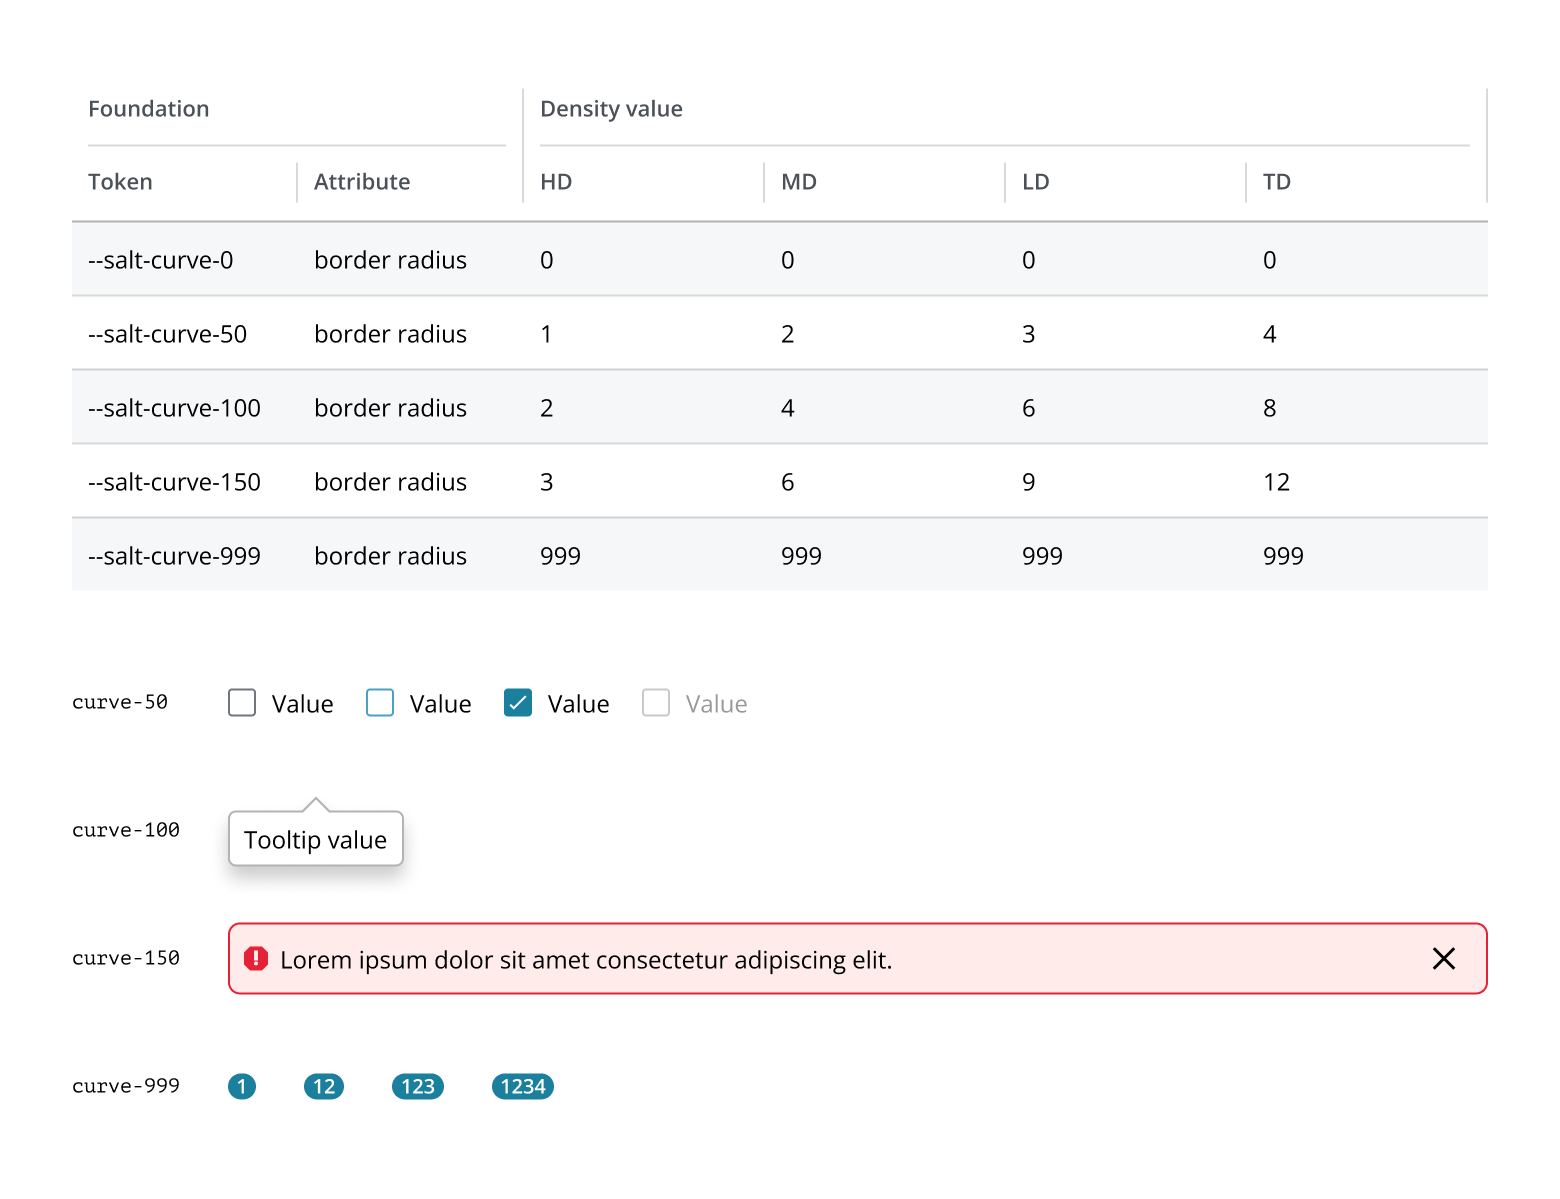
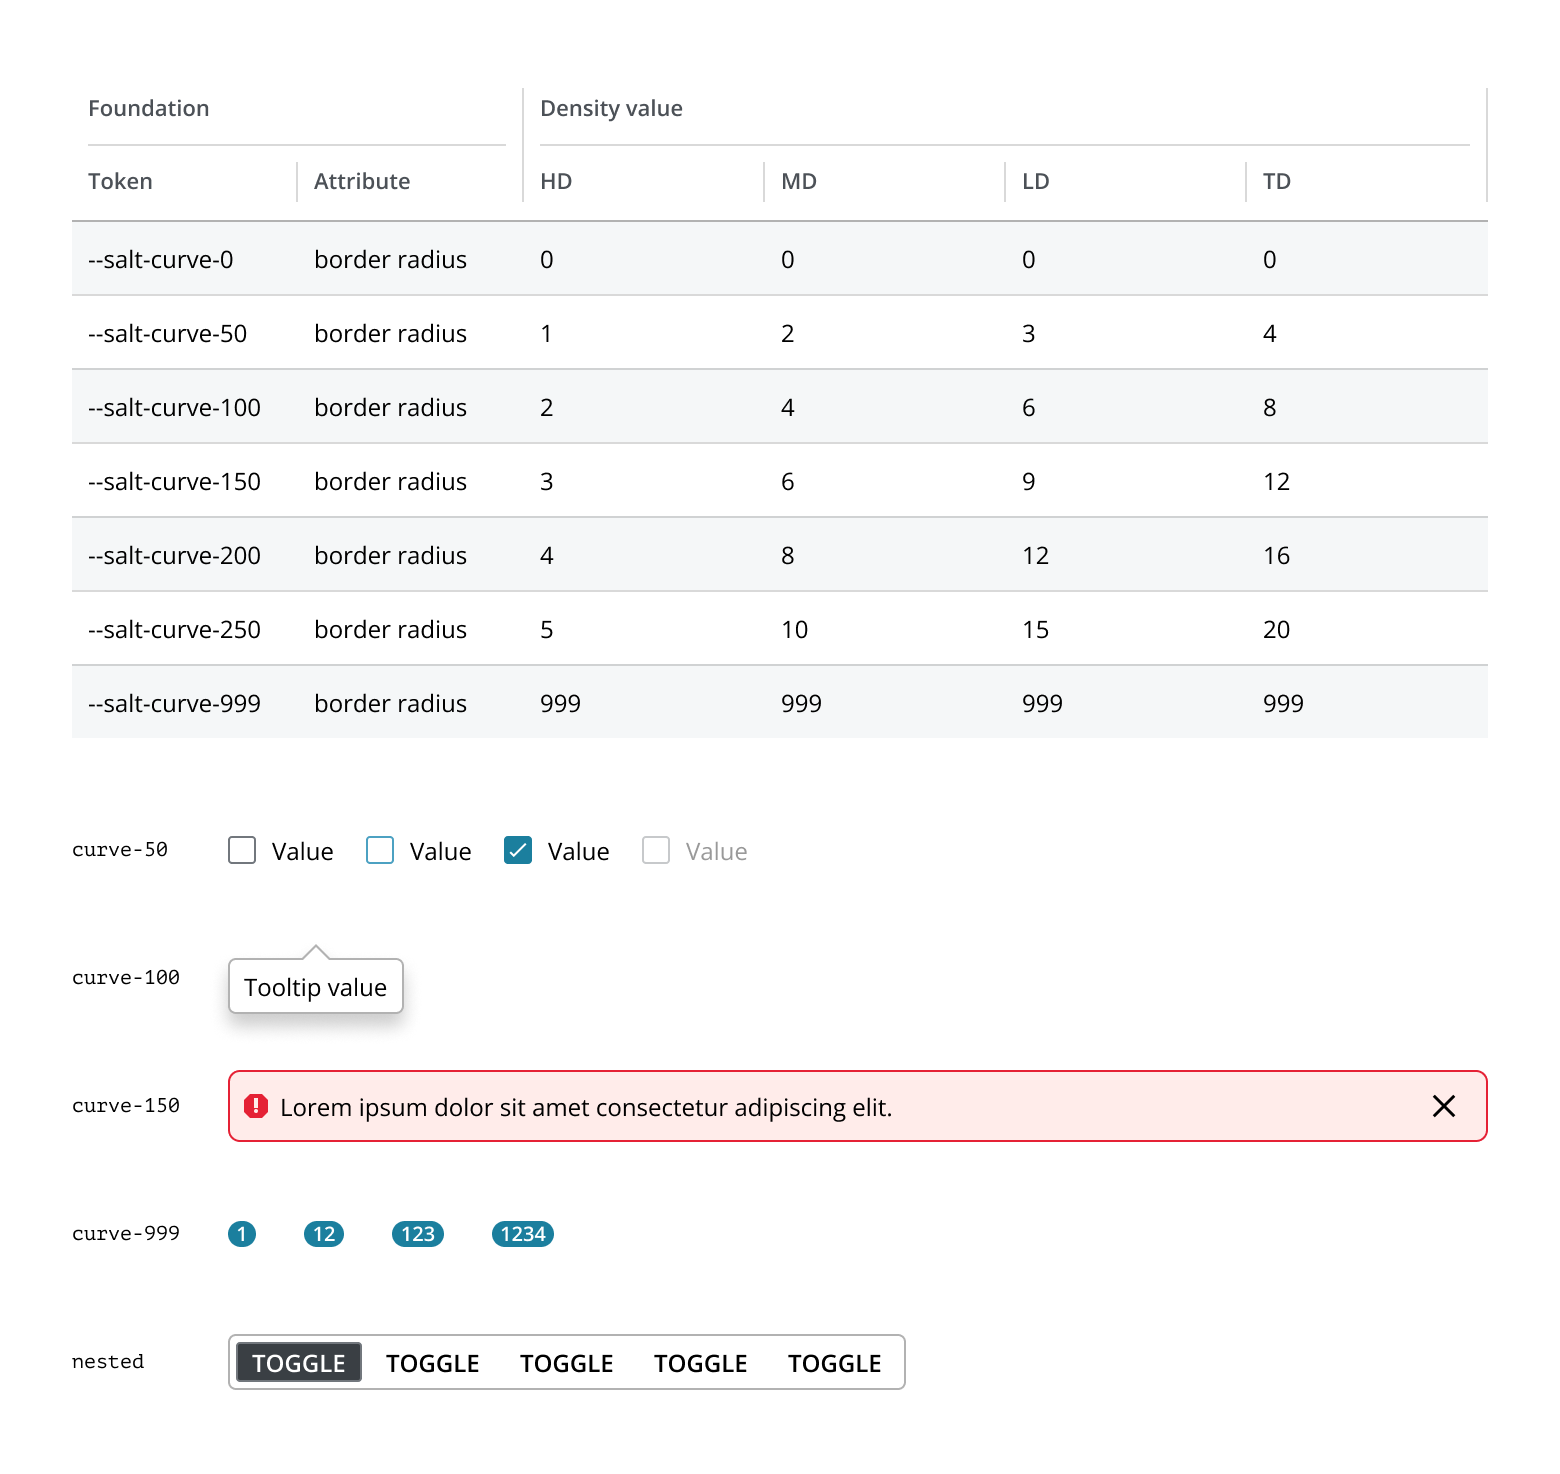
Add corner strong / stronger palette tokens

diff --git a/packages/theme/css/foundations/curve-next.css b/packages/theme/css/foundations/curve-next.css
@@ -3,6 +3,8 @@
   --salt-curve-50: 1px;
   --salt-curve-100: 2px;
   --salt-curve-150: 3px;
+  --salt-curve-200: 4px;
+  --salt-curve-250: 5px;
   --salt-curve-999: 999px;
 }
 
@@ -11,6 +13,8 @@
   --salt-curve-50: 2px;
   --salt-curve-100: 4px;
   --salt-curve-150: 6px;
+  --salt-curve-200: 8px;
+  --salt-curve-250: 10px;
   --salt-curve-999: 999px;
 }
 
@@ -19,6 +23,8 @@
   --salt-curve-50: 3px;
   --salt-curve-100: 6px;
   --salt-curve-150: 9px;
+  --salt-curve-200: 12px;
+  --salt-curve-250: 15px;
   --salt-curve-999: 999px;
 }
 
@@ -27,5 +33,7 @@
   --salt-curve-50: 4px;
   --salt-curve-100: 8px;
   --salt-curve-150: 12px;
+  --salt-curve-200: 16px;
+  --salt-curve-250: 20px;
   --salt-curve-999: 999px;
 }

diff --git a/packages/theme/css/palette/corner-next.css b/packages/theme/css/palette/corner-next.css
@@ -2,11 +2,15 @@
   --salt-palette-corner-weaker: var(--salt-curve-50);
   --salt-palette-corner-weak: var(--salt-curve-100);
   --salt-palette-corner: var(--salt-curve-150);
+  --salt-palette-corner-strong: var(--salt-curve-200);
+  --salt-palette-corner-stronger: var(--salt-curve-250);
   --salt-palette-corner-strongest: var(--salt-curve-999);
 }
 .salt-theme-next[data-corner="sharp"] {
   --salt-palette-corner-weaker: var(--salt-curve-0);
   --salt-palette-corner-weak: var(--salt-curve-0);
   --salt-palette-corner: var(--salt-curve-0);
+  --salt-palette-corner-strong: var(--salt-curve-0);
+  --salt-palette-corner-stronger: var(--salt-curve-0);
   --salt-palette-corner-strongest: var(--salt-curve-999);
 }

diff --git a/.changeset/corner-strong.md b/.changeset/corner-strong.md
@@ -1,0 +1,10 @@
+---
+"@salt-ds/theme": minor
+---
+
+Expanded corner palette `--salt-palette-corner-strong` and `--salt-palette-corner-stronger` tokens.
+
+| Token                            | HD  | MD   | LD   | TD   |
+| -------------------------------- | --- | ---- | ---- | ---- |
+| `--salt-palette-corner-strong`   | 4px | 8px  | 12px | 16px |
+| `--salt-palette-corner-stronger` | 5px | 10px | 15px | 20px |
